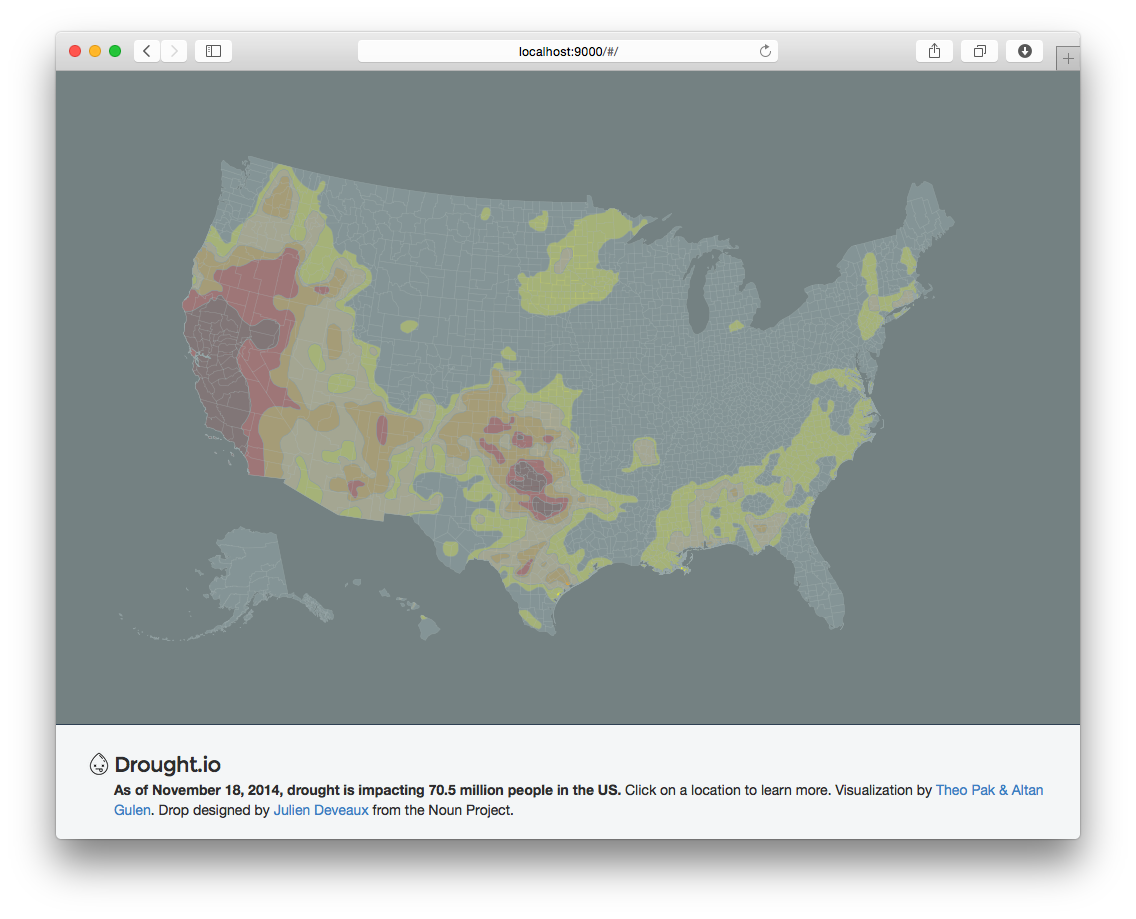
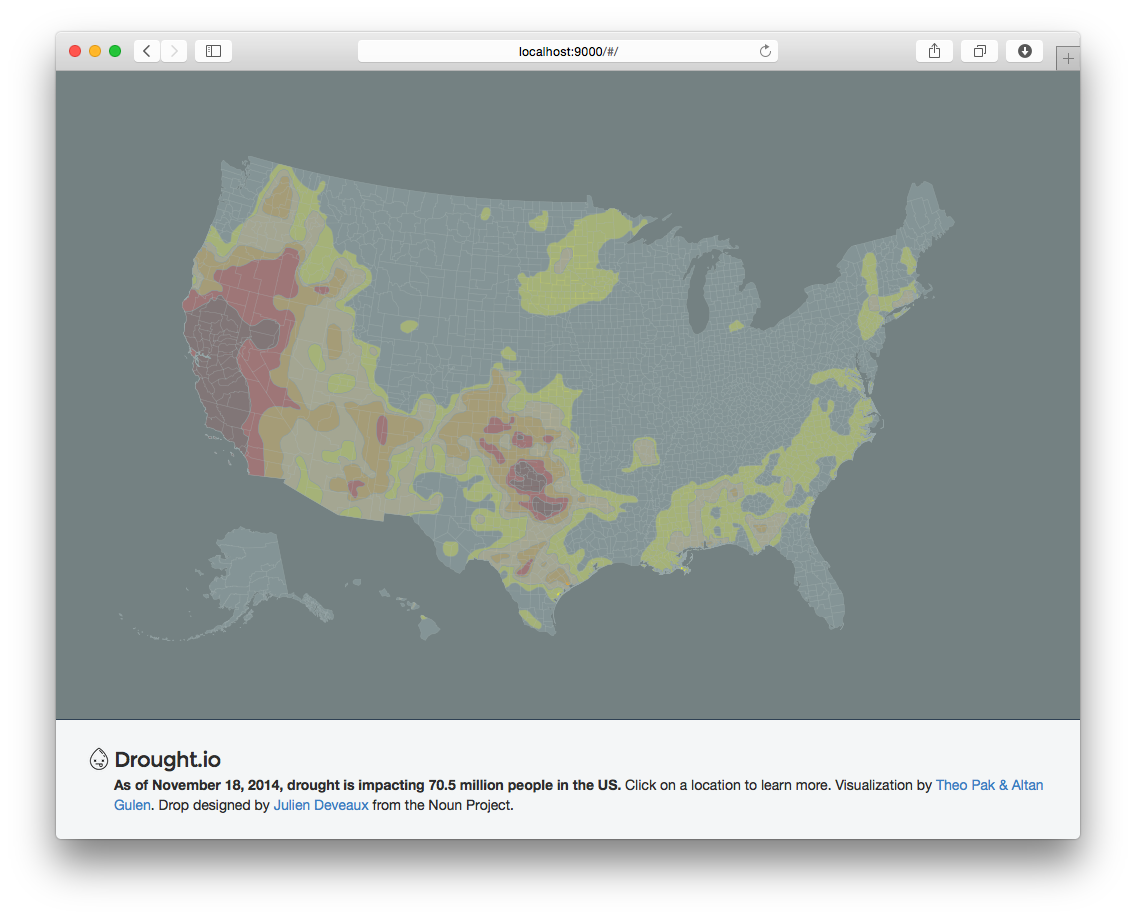
Fixes the most annoying bug where a small gap appeared below the map due to weird line-height stuff.

Changed region(s): [[0.0616, 0.8226, 0.9243, 0.914], [0.0616, 0.7617, 0.9551, 0.7922]]

diff --git a/app/styles/charts.scss b/app/styles/charts.scss
@@ -54,11 +54,14 @@ body {
   // position: fixed;
   top: 0;
   width: 100%;
+  font-size: 0;
+  line-height: 100%;
   background: $color4;
   z-index: 1;
   & > svg {
     width: 100%;
     // height: 100%;
+    line-height: 100%;
   }
 }
 path {
